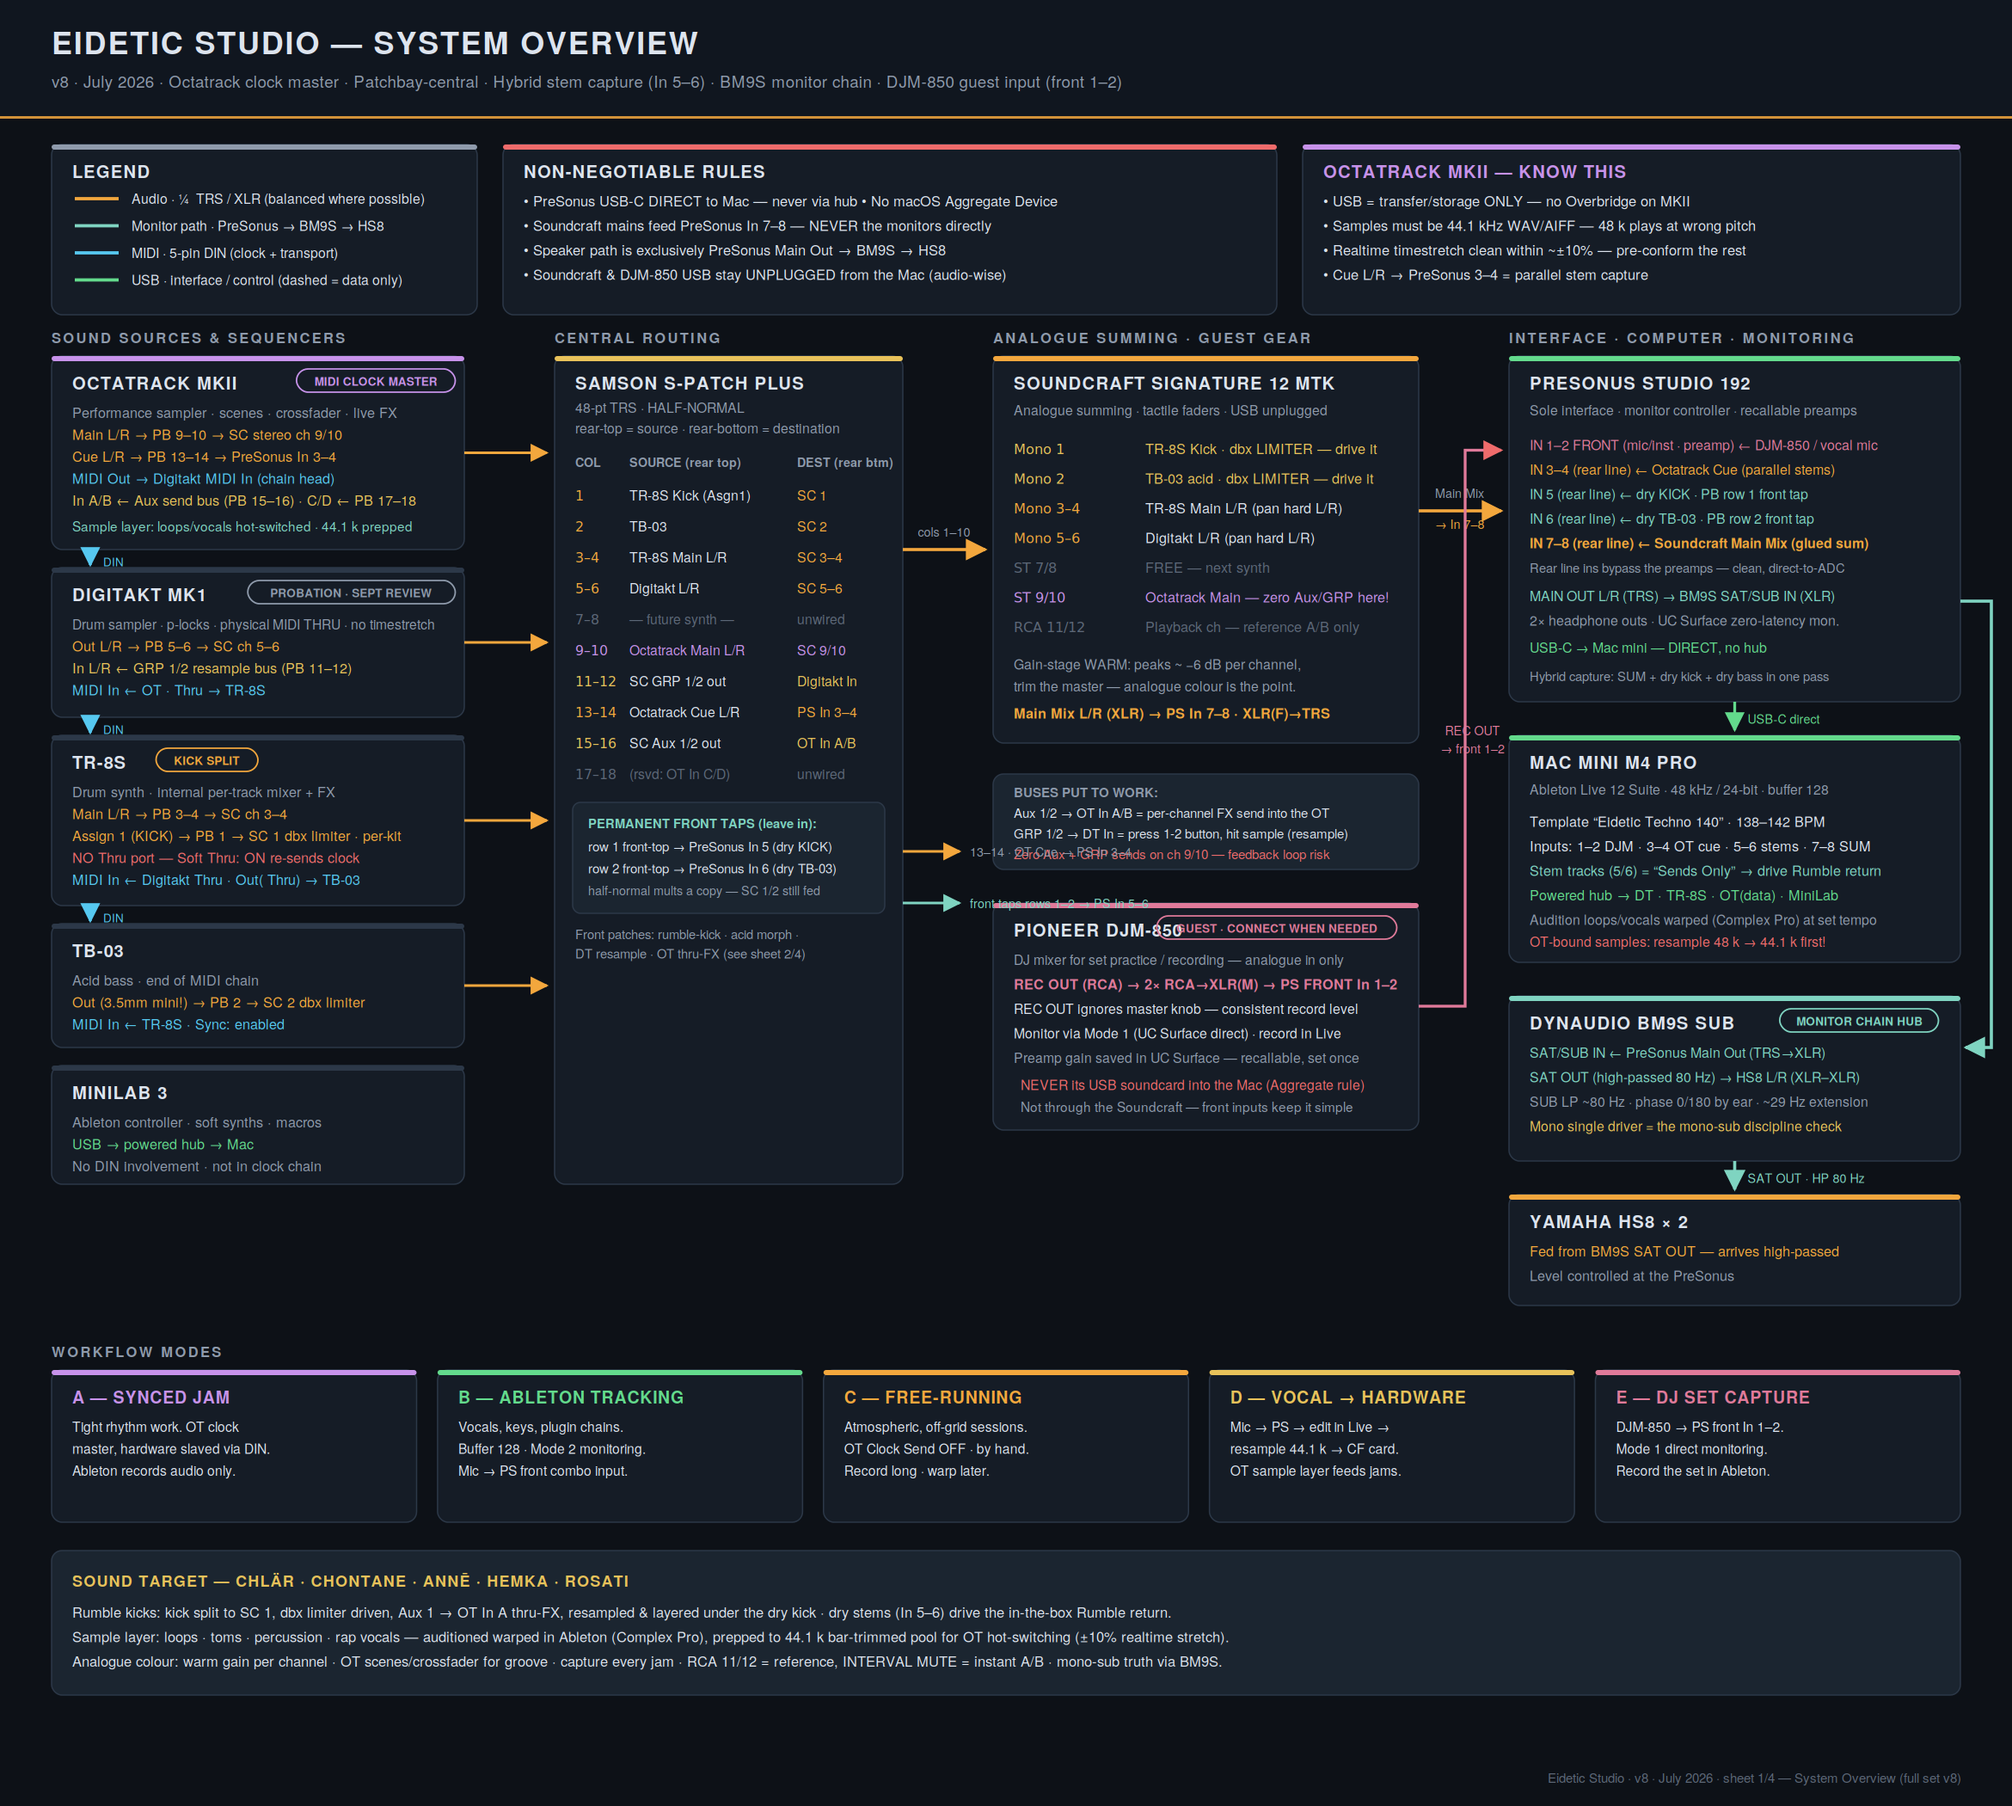
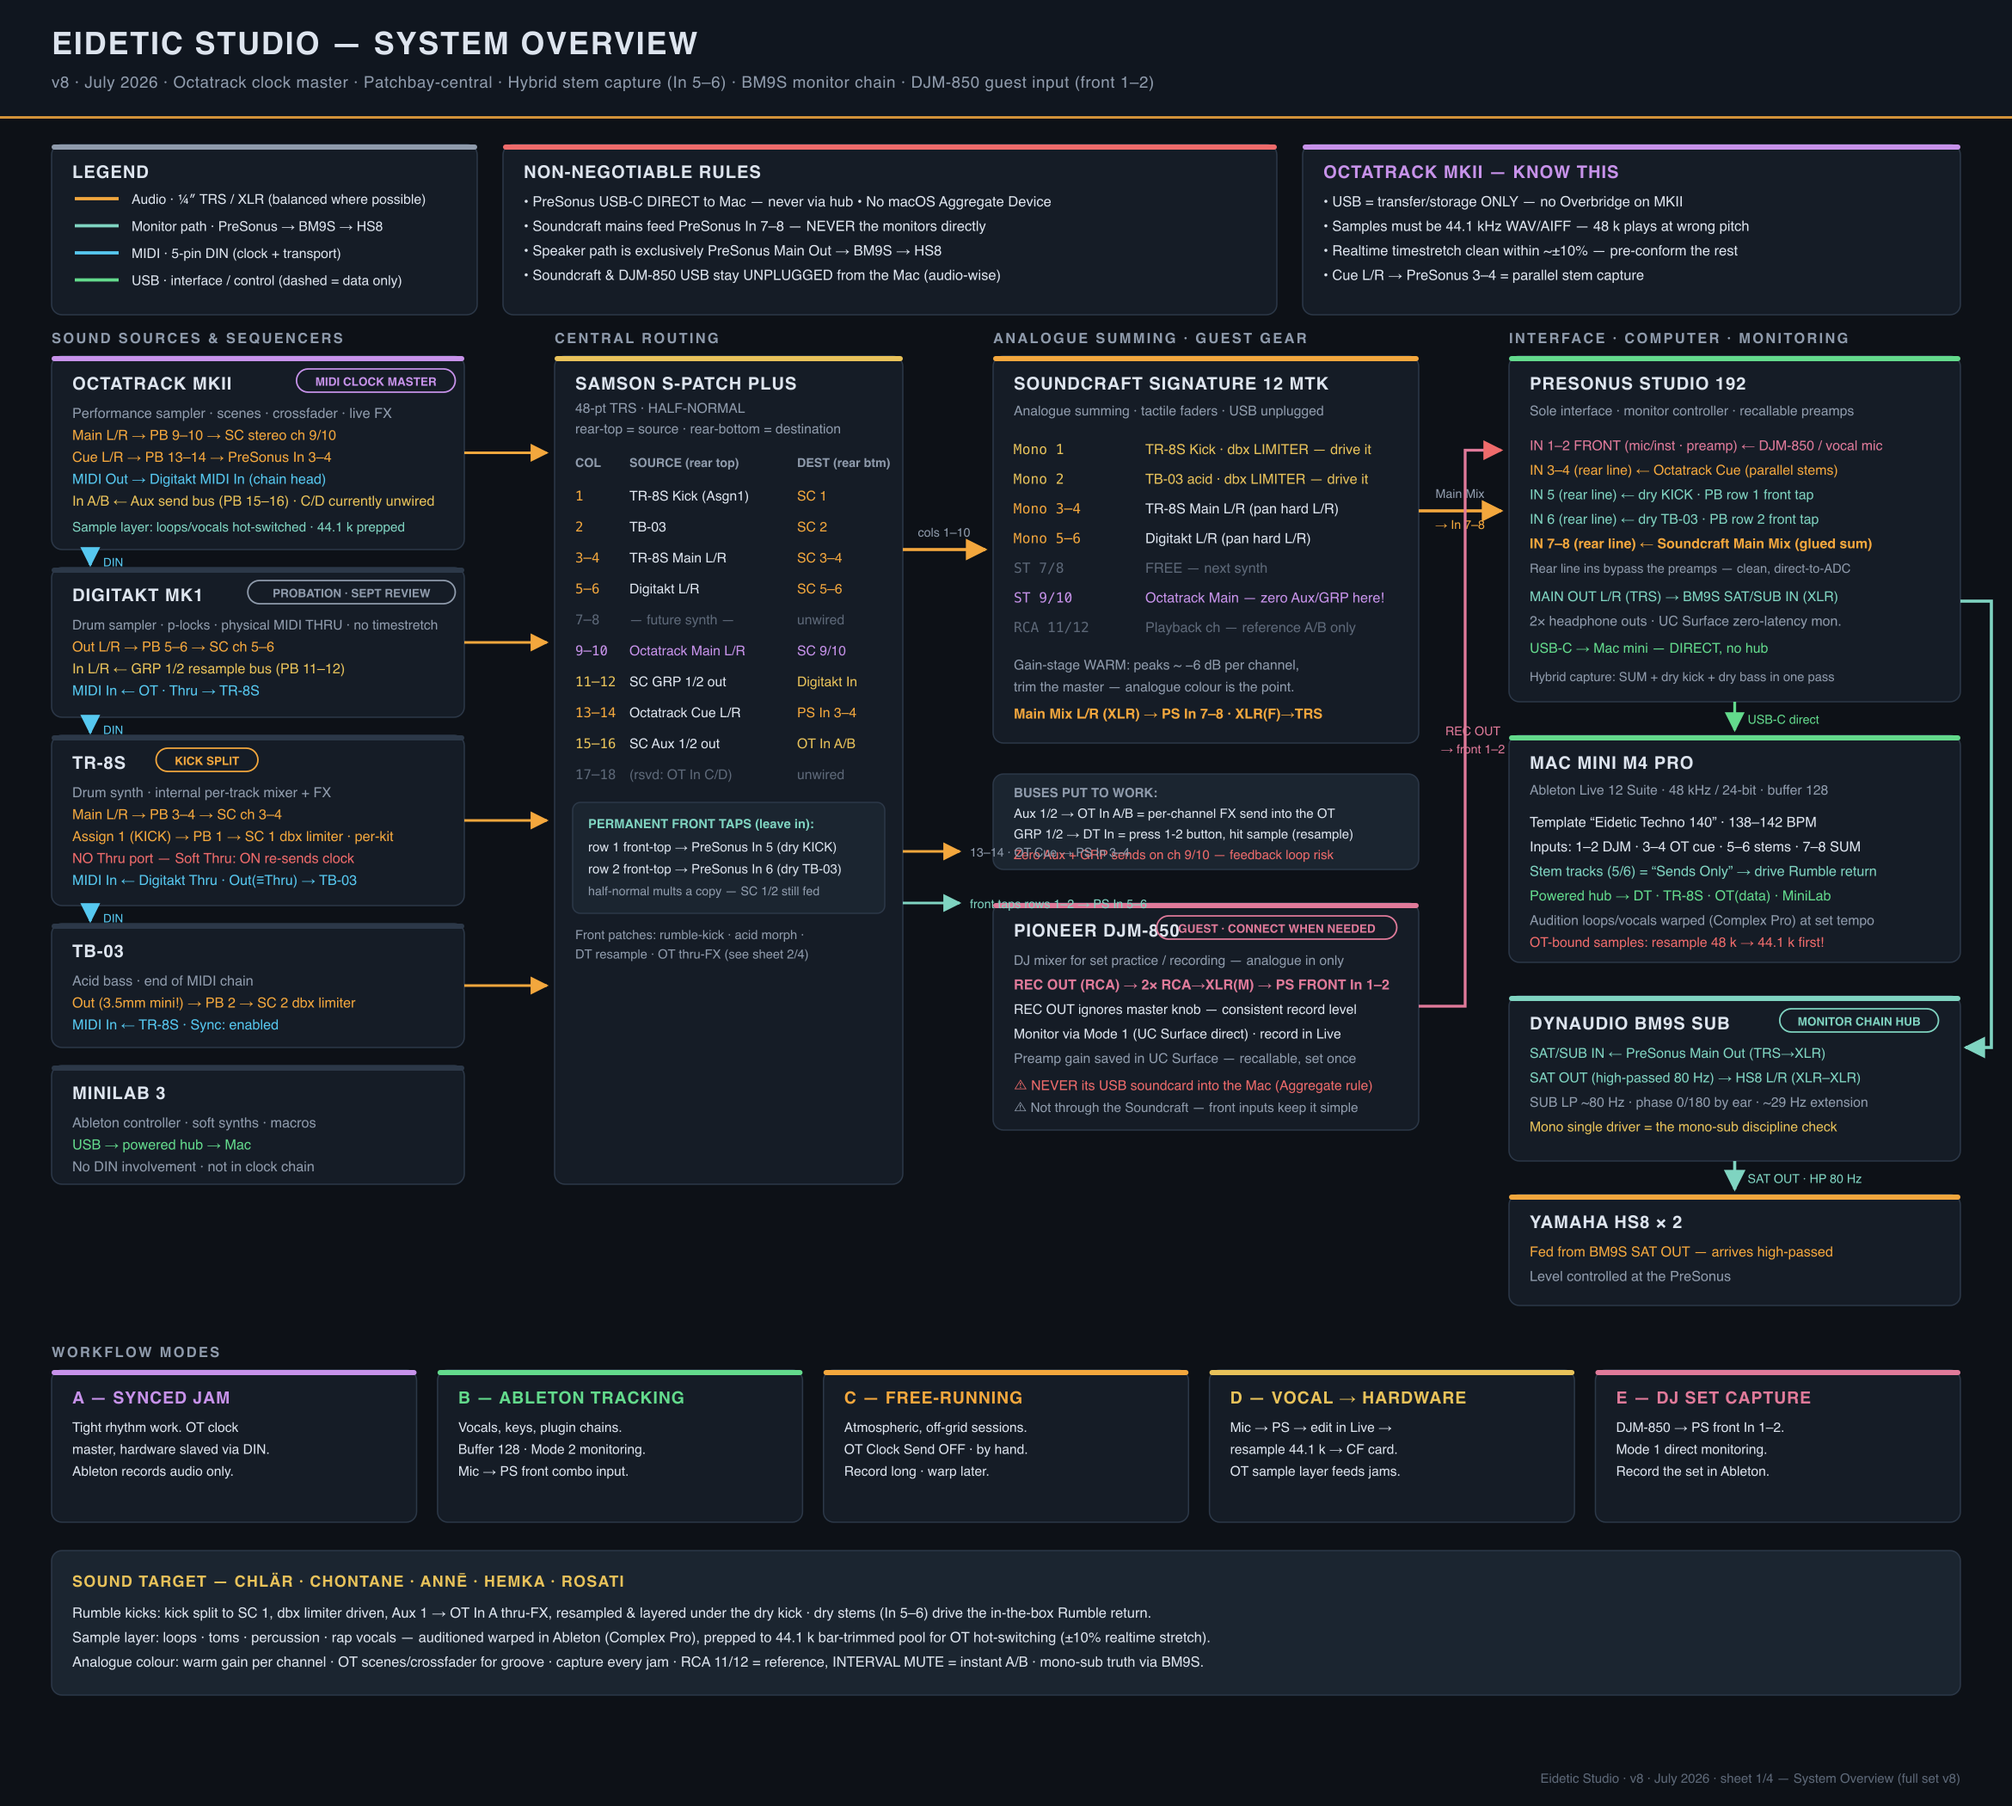
Resolve Track 8, Digitakt format, and OT C/D docs

diff --git a/knowledge-base.md b/knowledge-base.md
@@ -1,8 +1,8 @@
 # Eidetic Studio — Knowledge Base
 
-**Document version:** v2.5
+**Document version:** v2.6
 **Last updated:** 2026-07-19
-**Corresponds to diagram set:** **v8 — all four sheets** (footers read "v8 · July 2026"). v8 = v7 content plus the no-speculative-runs rule: patchbay rows 7–8 and 17–18 are left **unwired** (previously "synth-ready"/"flex" dest-side runs). Sheet 3's Digitakt USB label was corrected in v2.5: **Overbridge is not used**. The v8 set supersedes v6 and v7 entirely — delete all older copies.
+**Corresponds to diagram set:** **v8 — all four sheets** (footers read "v8 · July 2026"). v8 = v7 content plus the no-speculative-runs rule: patchbay rows 7–8 and 17–18 are left **unwired** (previously "synth-ready"/"flex" dest-side runs). Sheet 3's Digitakt USB label was corrected in v2.5; sheet 1 now also makes clear that **OT In C/D are unwired**. The v8 set supersedes v6 and v7 entirely — delete all older copies.
 **Owner:** Robin · DJ Eidetic · *Late Night Relics* on AAJA Radio
 
 **Document suite — this KB is one of three companions:**
@@ -439,7 +439,7 @@ Three modes are established. The Hybrid-mode rule is non-negotiable.
 - **TR-8S has no hardware MIDI Thru** → Soft Thru required.
 - **Octatrack MKII USB is CompactFlash-only** — no Overbridge, no USB audio/MIDI.
 - **Octatrack sample format:** 16- or 24-bit, **44.1 kHz** WAV/AIFF, mono or stereo. 48 kHz files play at the wrong pitch. Realtime timestretch stays clean within roughly ±10 % of native tempo.
-- **Digitakt MK1 sample format:** treat as 16-bit / mono but **verify sample rate before any batch conversion** — not yet confirmed; likely differs from the OT, so a single "sampler profile" is wrong. The Digitakt **cannot timestretch** (pitch and speed linked).
+- **Digitakt MK1 sample format:** **16-bit, 48 kHz, mono.** Elektron Transfer converts incoming files to this native format (Digitakt User Manual OS 1.51 p.65). The Digitakt **cannot timestretch** (pitch and speed linked).
 - **PreSonus Studio 192 input architecture (verified 2026-07-09):** 2 front-panel mic/instrument combos (**channels 1–2, always via XMAX preamps**; XLR max input +12 dBu at min gain; ¼″ leg = unbalanced instrument) + 6 rear combos (**channels 3–8**) whose ¼″ TRS **line inputs bypass the preamps entirely** (direct-to-ADC). Preamp gains are digitally controlled and recallable via UC Surface.
 - **Pioneer DJM-850 outputs (verified 2026-07-09):** Master 1 = XLR (hot, master-knob controlled) · Master 2 = RCA · Booth = TRS (booth-knob controlled) · **REC OUT = RCA, post-fader/FX but independent of the master level knob** — the designed recording feed · S/PDIF digital out · DIN MIDI out. Onboard USB soundcard 24-bit/96 kHz (unused here).
 
@@ -521,3 +521,4 @@ If the answer to all three is no, sell.
 | KB v2.3 | 2026-07-09 | **PreSonus input architecture verified against the Studio 192 spec:** In 1–2 are front mic/inst preamp combos; true line inputs are rear 3–8 only (bypass preamps). **Soundcraft Main Mix landing revised In 1–2 → In 7–8** (§0.4, §3.5, §9) — resolves the deferred XLR leg with the correct physical target; trade-off (no reserved future-synth stem inputs) recorded. **DJM-850 integrated as guest gear** (§3.6): REC OUT → 2× RCA→XLR(M) → front In 1–2, UC Surface recallable gain scenes, Mode 1 monitoring, new "DJ set capture" recipe (§12) and warnings §10.4a/§10.11/§10.12. **Full diagram set bumped to v7:** sheet 1 regenerated (BM9S monitor chain, capture taps, DJM path, revised input map); sheets 2 & 4 corrected (In 7–8 landing, BM9S chain, TR-8S/Digitakt row order aligned to §5.1, front-panel guest slot, permanent taps noted); sheet 3 gains USB rule 6 (DJM USB prohibition). New §13 confirms the sample audition/timestretch workflow (Ableton Complex Pro + OT ±10 % + A2 prep pipeline) is fully covered. Sub model naming flag opened (Robin said "BM92"; confirmed model is BM9S — verify badge, §0.1). |
 | **KB v2.4** | **2026-07-09** | **No-speculative-runs rule adopted (mid-Session 4):** patchbay rows **7–8** (dest → SC ST 7/8, "synth-ready") and **17–18** (dest → OT In C/D, "flex") **cut from the wiring plan — leave unwired** (§5.1). These were the only two "might be used" runs in the plan; all remaining runs are load-bearing. Session 4 budget restated: 14 runs + 2 taps = 16 cables, 8 spares (§5, §9). OT thru-FX-on-any-source recipe marked deferred (§5.2). **Diagram set bumped to v8** (sheets 1/2/4 amended; sheet 3 footer only). Rows 11–12 (DT resample bus) retained as active workflow — noted as freeing 2 cables if the September review retires the Digitakt. |
 | **KB v2.5** | **2026-07-19** | **Digitakt Overbridge explicitly retired from this configuration:** Digitakt USB CONFIG set/documented as **USB MIDI**, for Elektron Transfer only; no USB audio, Overbridge, or Ableton MIDI/clock workflow. Corrected the stale "MIDI + Overbridge" claims in §§2, 6, 7 and 11 and the v8 MIDI/USB-routing diagram. |
+| **KB v2.6** | **2026-07-19** | **Digitakt format verified:** 16-bit, 48 kHz, mono (Digitakt User Manual OS 1.51 p.65); removed the stale unverified-sample-rate warning. |

diff --git a/guides/session-method-a.md b/guides/session-method-a.md
@@ -1,8 +1,8 @@
 # Eidetic Studio — Full Session Guide (Method A + Performance Sample System)
 
-**Document version:** v1.1 — supersedes v1.0 (delete it)
-**Date:** 2026-07-17
-**Companion to:** Knowledge Base v2.4 · Sound & Production Workflow v1.3 · MIDI Sync Guide v1.0
+**Document version:** v1.2 — supersedes v1.1
+**Date:** 2026-07-19
+**Companion to:** Knowledge Base v2.6 · Sound & Production Workflow v1.3 · MIDI Sync Guide v1.2
 **Scope:** One complete production cycle, plus the sample organisation and resampling system that makes it sticky and reusable. Assumes samples are loaded. Rumble is generated in Ableton (Method A) from the dry kick tap on PreSonus In 5.
 
 > **The one-sentence philosophy:** you rehearse until the loop is undeniable, then you perform the arrangement once, capture it, and finish in the box. Recording is earned, not started.
@@ -57,7 +57,7 @@ SETNAME/AUDIO/
 | T5 | Flex | **RESAMPLE playback** ← Recorder buffer 5 | See §5 — the live capture slot |
 | T6 | Flex | Spare — second vocal / texture | |
 | T7 | Thru | In A/B (desk Aux 1/2) | The console send-FX return |
-| T8 | Master | Master track | Scene-able master FX (filter, comp) over everything |
+| T8 | Static | LOOP C — hot-switch pool | Third loop slot; Master track is OFF |
 
 **Plain-English glossary for the two OT concepts that confuse everyone:**
 - **Static vs Flex:** Static machines stream long files straight off the CF card (unlimited length, but no slicing tricks). Flex machines load samples into RAM (limited size, but full slicing, retriggers, and recorder-buffer playback). Loops you *switch between* → Static. Material you *mangle* → Flex.
@@ -151,7 +151,7 @@ KICK STEM: **Send A up** until the rumble is felt under the sum, swelling betwee
 
 ## Phase 4 — Performance prep on the Octatrack (~20–30 min)
 
-1. Scenes: minimum three — stripped (kick+rumble+one element), full, tension (filtered/FX). Include the T8 master track in scene moves for whole-mix sweeps.
+1. Scenes: minimum three — stripped (kick+rumble+one element), full, tension (filtered/FX). Build the moves on the playable tracks; **T8 remains a Static loop slot, not a master track.**
 2. Crossfader across your two most useful scenes.
 3. Send-FX throws: Aux 1 up on Ch 3/4 or 5/6 → OT Thru (T7) delay/reverb. **Never Ch 9/10.**
 4. Hot-switch pool check: confirm T1/T2 Static slots point at this track's loop candidates so mid-take swaps are two button presses.
@@ -212,3 +212,4 @@ This system gives the Digitakt two roles the current OT template doesn't cover *
 |---|---|---|
 | v1.0 | 2026-07-17 | Initial seven-phase guide; Method A rumble chain; Sends Only rule. |
 | **v1.1** | **2026-07-17** | **Performance sample system added (Part I):** device role split; vocal cut-up decision (tempo-locked → OT Flex slices, repitched stabs → DT sample locks); OT CF folder layout + reusable project template (T1–T8, Static/Flex/Thru/Master); DT Sound Pool + track template with dual resample slots; three-loop resampling flywheel (OT recorder buffers · GRP→DT bus · Ableton→CF via A2); Part-save gotcha documented; flywheel moments woven into Phases 3–7; DT probation datapoint added. |
+| **v1.2** | **2026-07-19** | **OT Track 8 reconciled to the current template:** Master OFF; T8 is a Static **LOOP C** hot-switch slot. Removed the conflicting master-track assignment and whole-mix-scene instruction. |

diff --git a/devices/digitakt.md b/devices/digitakt.md
@@ -36,4 +36,5 @@ Load 30–50 sounds into the Sound Pool before a session.
 
 ## Sources
 
-- In-repo verified: `../guides/midi-sync.md`, `../guides/track-setup.md`, `../knowledge-base.md` (facts from the Digitakt manual).
+- Digitakt User Manual OS 1.51: USB CONFIG p.73; native sample format / Elektron Transfer conversion p.65.
+- In-repo verified: `../guides/midi-sync.md`, `../guides/track-setup.md`, `../knowledge-base.md`.
